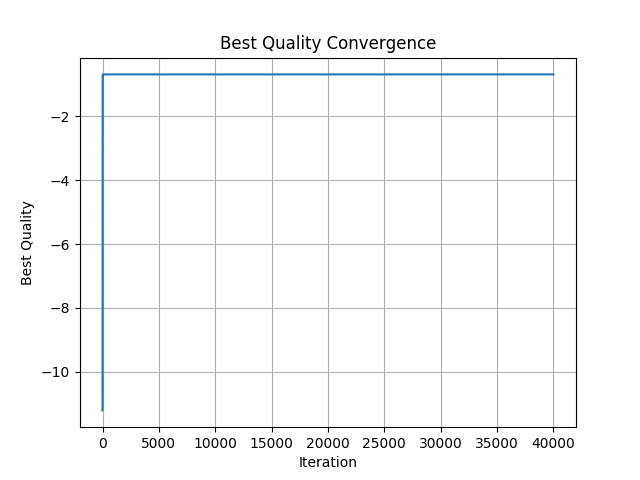
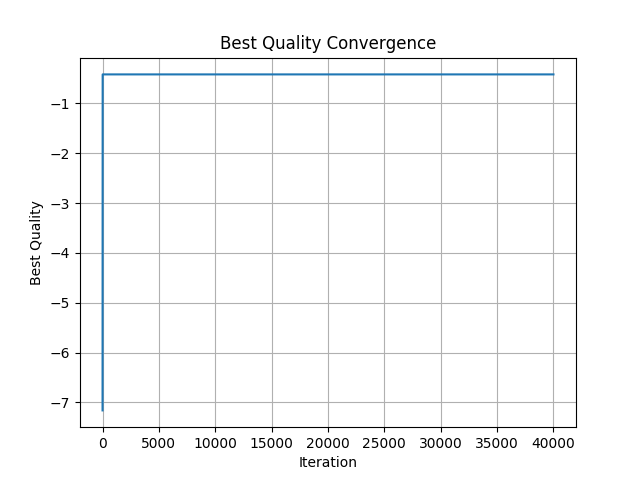
maybe finishing notify_evaluation, get_best_position and get_best_value

diff --git a/lab4/particle_swarm_optimization.py b/lab4/particle_swarm_optimization.py
@@ -25,6 +25,7 @@ class Particle:
             self.position = np.append(self.position, [random_position])
 
         self.velocity = 0
+        self.my_best_value = -inf
         self.my_best_position = self.position
 
 
@@ -53,6 +54,7 @@ class ParticleSwarmOptimization:
         for i in range(self.hyperparams.num_particles):
             self.particles.append(Particle(self.lower_bound, self.upper_bound))
 
+        self.global_best_value = -inf
         self.global_best_position = self.particles[0].position
 
         self.count_particles_evaluated = 0
@@ -65,7 +67,7 @@ class ParticleSwarmOptimization:
         :rtype: numpy array.
         """
         # Todo: implement
-        return self.lower_bound  # Remove this line
+        return self.global_best_position
 
     def get_best_value(self):
         """
@@ -75,7 +77,7 @@ class ParticleSwarmOptimization:
         :rtype: float.
         """
         # Todo: implement
-        return 0.0  # Remove this line
+        return self.global_best_value
 
     def get_position_to_evaluate(self):
         """
@@ -86,10 +88,6 @@ class ParticleSwarmOptimization:
         """
         # Todo: implement
         position_to_evaluate = self.particles[self.count_particles_evaluated].position
-
-        self.count_particles_evaluated = self.count_particles_evaluated + 1
-        if self.count_particles_evaluated == self.hyperparams.num_particles:
-            self.count_particles_evaluated = 0
 
         return position_to_evaluate
 
@@ -118,5 +116,19 @@ class ParticleSwarmOptimization:
         :type value: float.
         """
         # Todo: implement
+        current_particle_evaluated = self.particles[self.count_particles_evaluated]
+
+        if value > current_particle_evaluated.my_best_value:
+            current_particle_evaluated.my_best_value = value
+            current_particle_evaluated.my_best_position = current_particle_evaluated.position
+
+        if value > self.global_best_value:
+            self.global_best_value = value
+            self.global_best_position = current_particle_evaluated.position
+
+        self.count_particles_evaluated = self.count_particles_evaluated + 1
+        if self.count_particles_evaluated == self.hyperparams.num_particles:
+            self.count_particles_evaluated = 0
+
         pass  # Remove this line
 
